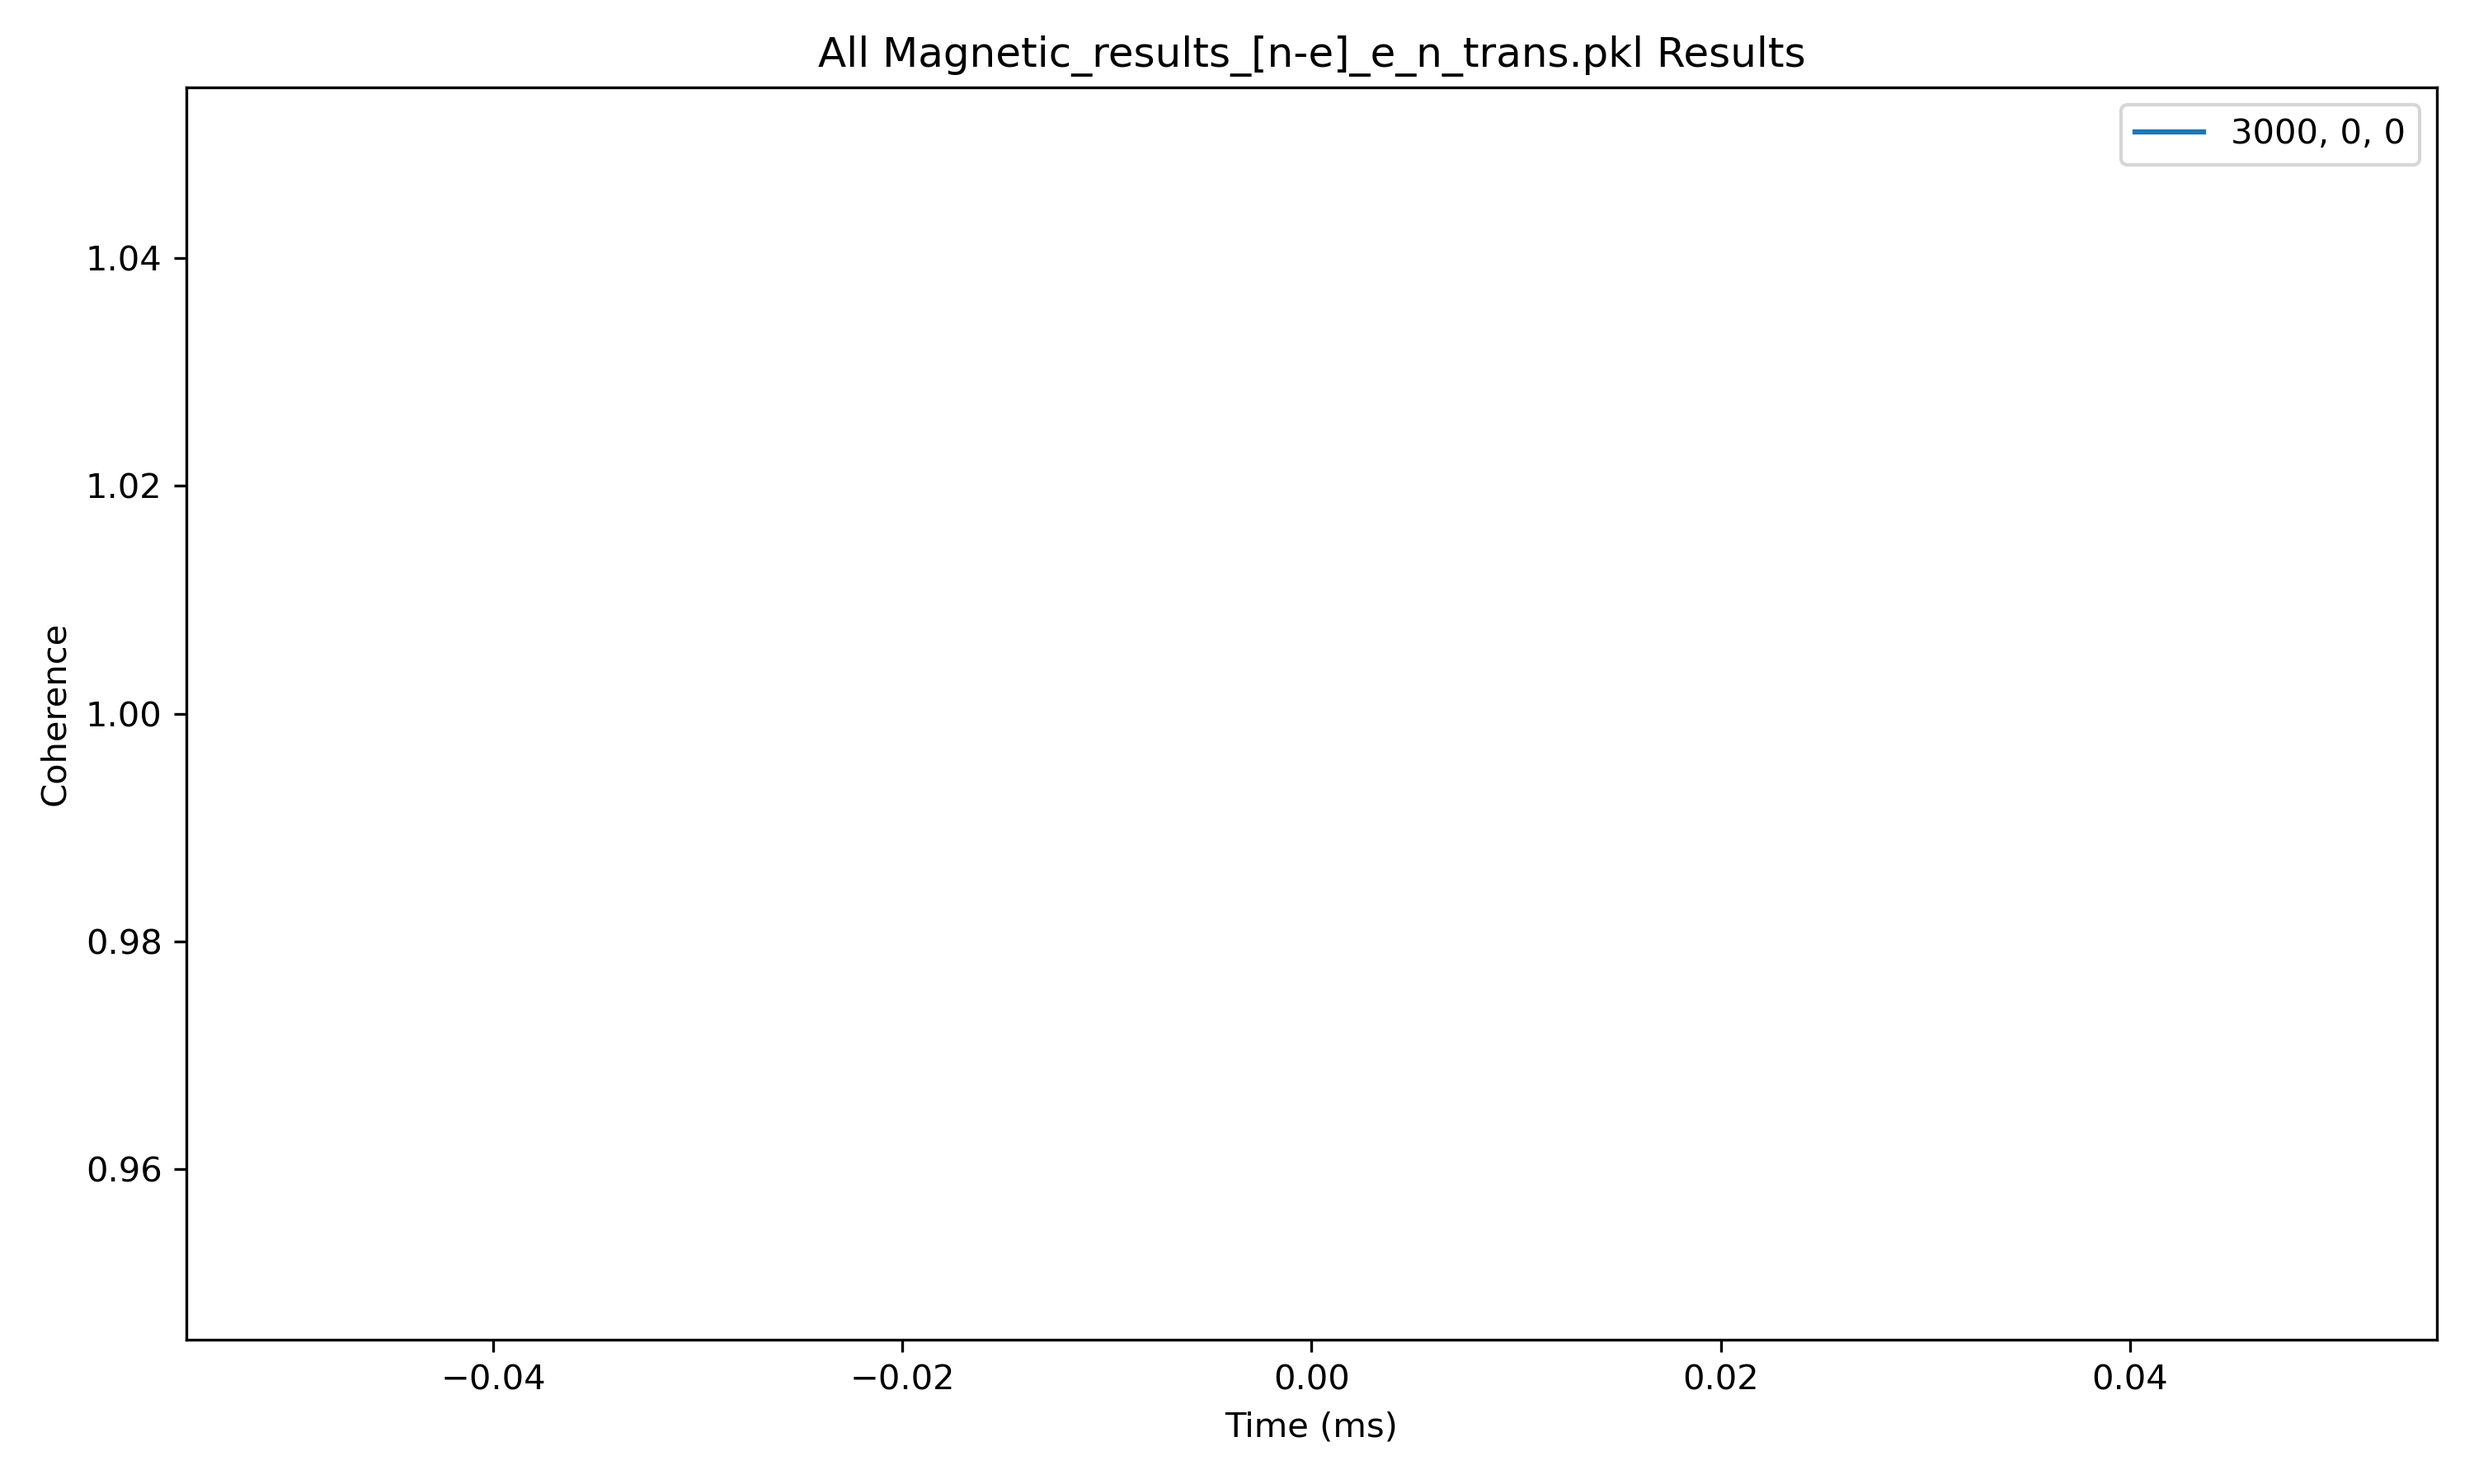
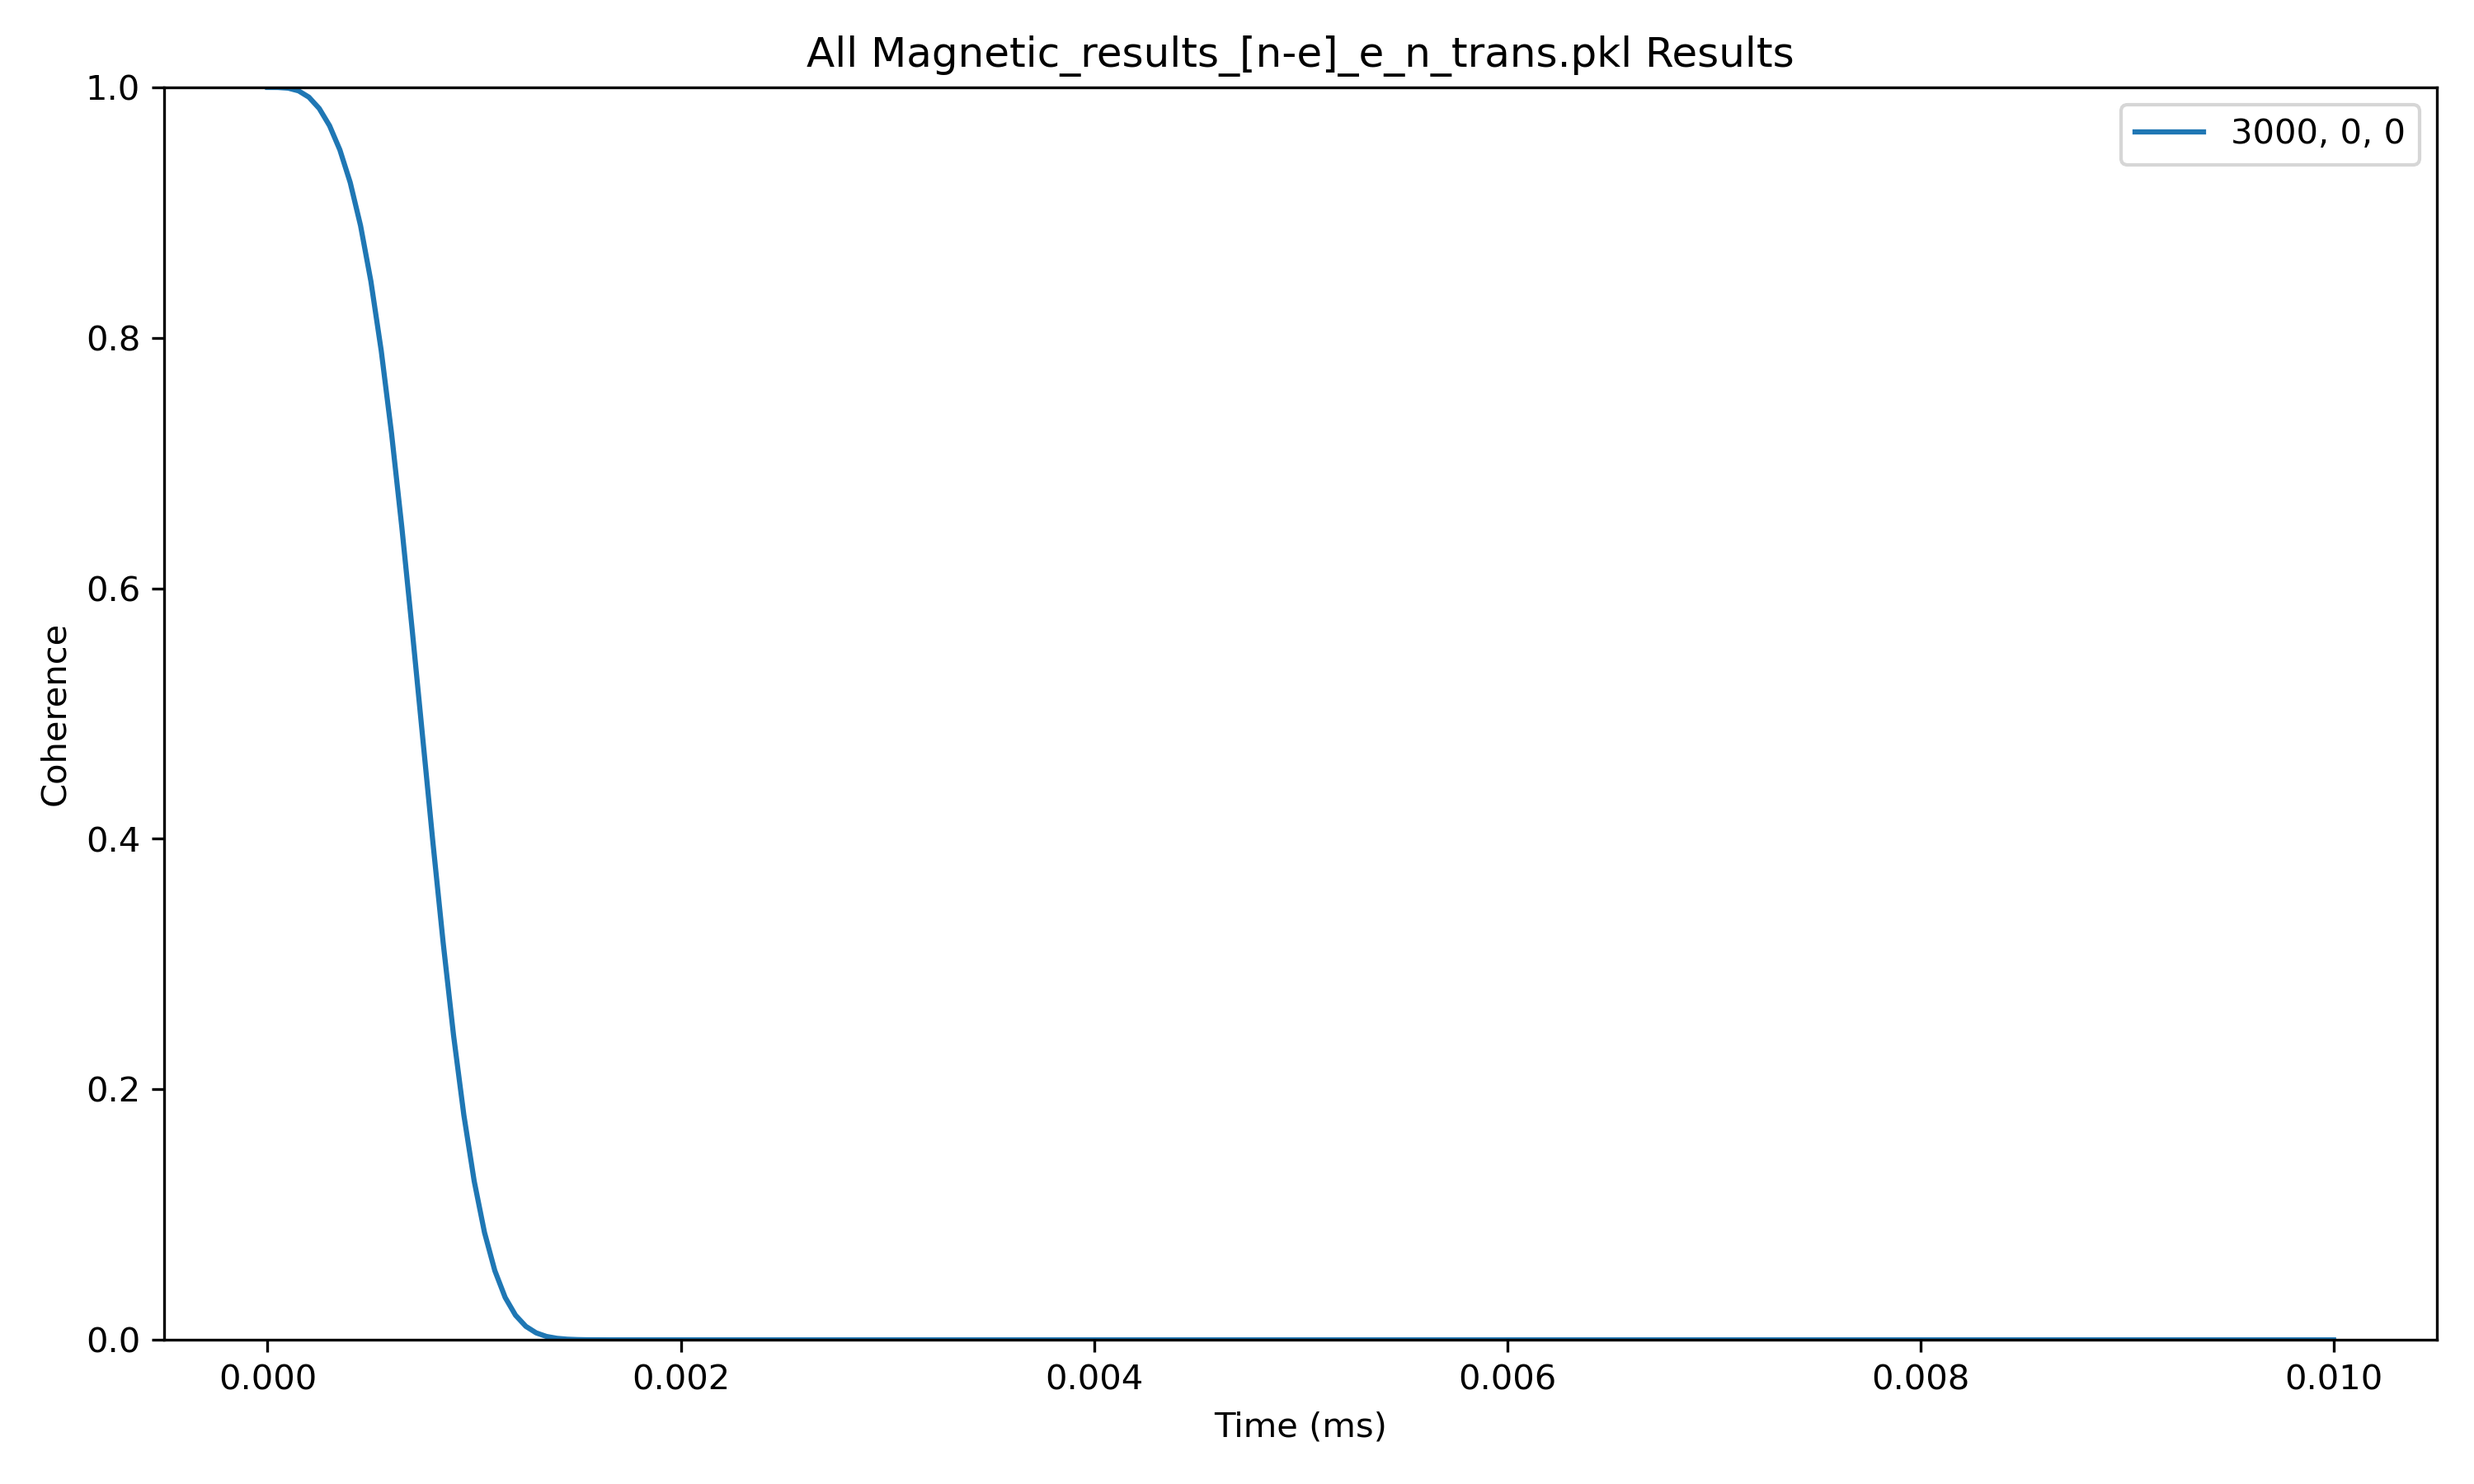
dump

diff --git a/VOTPP folder/VOTPP_convergence_runner_n_e.py b/VOTPP folder/VOTPP_convergence_runner_n_e.py
@@ -99,7 +99,7 @@ nbstates_list = [128,]
 
 default_calc_parameters = {
     # 'timespace': np.linspace(0, 7e-2, 201),
-    'timespace': np.linspace(0, 5e-1, 201), # 7e-2
+    'timespace': np.linspace(0, 1e-1, 201), # 7e-2
     # 'timespace': np.linspace(0, , 2), # 7e-2
     'method': 'cce',
     'pulses': [pc.Pulse('x', np.pi)], # Paper defines a Hahn-echo pulse sequence with 2pi/3 pulses?
@@ -116,7 +116,7 @@ default_bath_parameters = {
 }
 
 default_simulator_parameters = { ########## These should be greater when simulating with HPC
-    'order': 3, #!
+    'order': 2, #!
     'r_bath': 300, #35
     'r_dipole': 150, #20
     # 'pulses': 1, # N pulses in CPMG sequence (=1 is Hahn-echo, =0 is free induction decay)

diff --git a/VOTPP folder/VOTPP_results_and_fit_plotter.py b/VOTPP folder/VOTPP_results_and_fit_plotter.py
@@ -109,7 +109,10 @@ def plot_from_file(pickle_filenames):
 # plot_from_file(['magnetic_results_n_n.pkl',])
 # plot_from_file(['magnetic_results_[n-e]_e.pkl',])
 # plot_from_file(['magnetic_results_e_e.pkl',])
-# plot_from_file(['magnetic_results_n_e.pkl',])
+plot_from_file(['magnetic_results_n_e.pkl',])
+
+# plot_from_file(['magnetic_results_[n-e]_e_N_trans.pkl',])
+# plot_from_file(['magnetic_results_[n-e]_e_E_trans.pkl',])
 
 # plot_from_file(['alphabeta_results_0.pkl', 'alphabeta_results_1.pkl', 'alphabeta_results_2.pkl', 'alphabeta_results_3.pkl', ])
 # plot_from_file(['alphabeta_results.pkl',])

diff --git a/VOTPP folder/VOTPP_convergence_runner_copy.py b/VOTPP folder/VOTPP_convergence_runner_copy.py
@@ -117,7 +117,7 @@ default_bath_parameters = {
 
 default_simulator_parameters = { ########## These should be greater when simulating with HPC
     'order': 2, #!
-    'r_bath': 60, #35
+    'r_bath': 35, #35
     'r_dipole': 20, #20
     # 'pulses': 1, # N pulses in CPMG sequence (=1 is Hahn-echo, =0 is free induction decay)
     # 'pulses': [pc.Pulse('x', 2*(np.pi)/3)], # Paper defines a Hahn-echo pulse sequence with 2pi/3 pulses?
